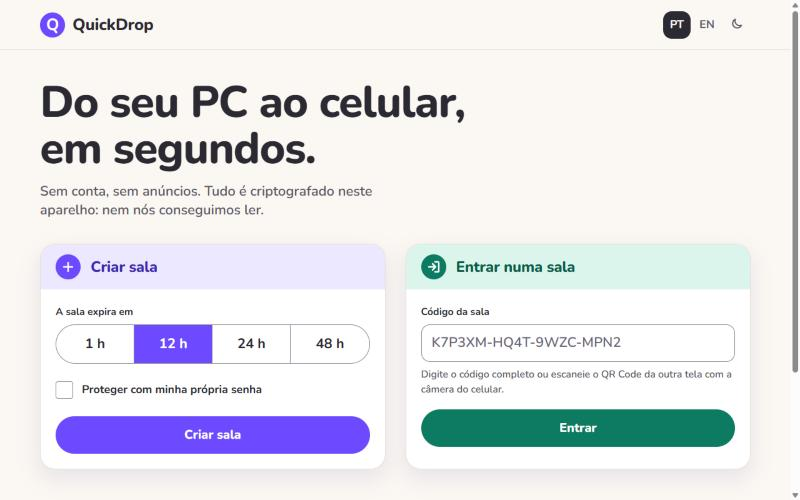
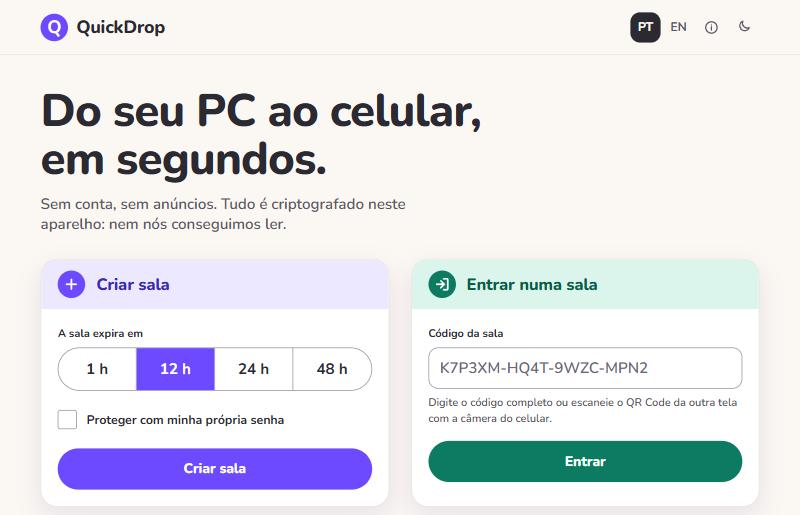
Sobre vira ícone no topo (junto de idioma e tema), sem rodapé; topo ajustado para celulares estreitos; teste de presença estável

diff --git a/frontend/static/css/style.css b/frontend/static/css/style.css
@@ -210,7 +210,8 @@ h1 {
   gap: 0.25rem;
 }
 
-.theme-toggle {
+/* Ícones do topo (sobre e tema): mesma forma de botão, 44px de alvo de toque. */
+.topbar__icon {
   display: grid;
   width: 44px;
   height: 44px;
@@ -219,15 +220,17 @@ h1 {
   border-radius: var(--radius-pill);
   background: none;
   color: var(--ink-soft);
+  text-decoration: none;
   cursor: pointer;
 }
 
-.theme-toggle:hover {
+.topbar__icon:hover,
+.topbar__icon[aria-current="page"] {
   background: var(--blue-tint);
   color: var(--on-blue-tint);
 }
 
-.theme-toggle svg {
+.topbar__icon svg {
   width: 1.375rem;
   height: 1.375rem;
   fill: none;
@@ -281,11 +284,6 @@ h1 {
 }
 
 /* ---------- páginas ---------- */
-
-.page-footer {
-  padding: 0 var(--gutter) 2rem;
-  font-size: 0.9rem;
-}
 
 .about-section {
   max-width: 40rem;
@@ -1051,7 +1049,7 @@ textarea:focus-visible {
   }
 
   .brand {
-    font-size: 1.5rem;
+    font-size: 1.375rem;
   }
 
   .page {
@@ -1113,5 +1111,31 @@ textarea:focus-visible {
 
   .route__train {
     display: none;
+  }
+}
+
+/* Celulares bem estreitos (360px e menos): marca e botões do topo menores para caberem lado a lado. */
+@media (max-width: 420px) {
+  .topbar {
+    flex-wrap: wrap;
+    gap: 0 0.5rem;
+  }
+
+  .brand {
+    gap: 0.5rem;
+    font-size: 1.2rem;
+  }
+
+  .brand .roundel {
+    width: 2.25rem;
+    height: 2.25rem;
+  }
+
+  .language button,
+  .topbar__icon {
+    width: 40px;
+    min-width: 40px;
+    height: 40px;
+    min-height: 40px;
   }
 }

diff --git a/frontend/templates/base.html b/frontend/templates/base.html
@@ -31,7 +31,10 @@
         <button type="button" data-language="pt" aria-pressed="true">PT</button>
         <button type="button" data-language="en" aria-pressed="false">EN</button>
       </div>
-      <button class="theme-toggle" type="button" aria-pressed="false" data-i18n-aria-label="theme.toggle" aria-label="Alternar entre tema claro e escuro">
+      <a class="topbar__icon" href="/sobre" data-i18n-aria-label="topbar.about" data-i18n-title="topbar.about" aria-label="Sobre" title="Sobre"{% if request.url.path == "/sobre" %} aria-current="page"{% endif %}>
+        {{ icon("info") }}
+      </a>
+      <button class="topbar__icon theme-toggle" type="button" aria-pressed="false" data-i18n-aria-label="theme.toggle" data-i18n-title="theme.toggle" aria-label="Alternar entre tema claro e escuro" title="Alternar entre tema claro e escuro">
         <span class="icon-moon">{{ icon("moon") }}</span>
         <span class="icon-sun">{{ icon("sun") }}</span>
       </button>
@@ -40,7 +43,6 @@
   <main class="page">
     {% block content %}{% endblock %}
   </main>
-  <footer class="page-footer"><a href="/sobre" data-i18n="footer.about">Sobre</a></footer>
   <script type="module" src="{{ url_for('static', path='js/theme-toggle.js') }}"></script>
   <script type="module" src="{{ url_for('static', path='js/pwa.js') }}"></script>
   {% block scripts %}{% endblock %}

diff --git a/frontend/static/js/messages.js b/frontend/static/js/messages.js
@@ -159,7 +159,7 @@ export const messages = {
     "about.abuse": "Como o conteúdo é ilegível para o servidor, a única providência possível é encerrar a sala. Para denunciar, envie o código da sala para",
     "about.abuseNoContact": "Para denunciar, envie o código da sala a quem hospeda este site.",
     "about.back": "Voltar ao início",
-    "footer.about": "Sobre",
+    "topbar.about": "Sobre",
     "error.serverFull": "O servidor está cheio agora. Tente de novo mais tarde.",
     "error.tooManyAttempts": "Muitas tentativas. Espere um minuto e tente de novo.",
     "error.fileGone": "Este arquivo não existe mais.",
@@ -327,7 +327,7 @@ export const messages = {
     "about.abuse": "Because the content is unreadable to the server, the only possible action is closing the room. To report one, send the room code to",
     "about.abuseNoContact": "To report a room, send its code to whoever hosts this site.",
     "about.back": "Back to start",
-    "footer.about": "About",
+    "topbar.about": "About",
     "error.serverFull": "The server is full right now. Please try again later.",
     "error.tooManyAttempts": "Too many attempts. Wait a minute and try again.",
     "error.fileGone": "This file no longer exists.",

diff --git a/frontend/static/js/i18n.js b/frontend/static/js/i18n.js
@@ -2,7 +2,7 @@
 //
 // No HTML, um elemento com data-i18n="chave" tem o texto trocado pela tradução.
 // Se o texto tiver valores, como "{textSize}", eles ficam em data-i18n-values (um JSON).
-// Também funcionam data-i18n-placeholder e data-i18n-aria-label.
+// Também funcionam data-i18n-placeholder, data-i18n-aria-label e data-i18n-title (a dica ao passar o mouse).
 
 import { messages } from "./messages.js";
 
@@ -49,6 +49,7 @@ export function applyTranslations(root = document) {
   }
   translateAttribute(root, "data-i18n-placeholder", "placeholder");
   translateAttribute(root, "data-i18n-aria-label", "aria-label");
+  translateAttribute(root, "data-i18n-title", "title");
 }
 
 function markActiveLanguageButton() {

diff --git a/frontend/templates/_icons.html b/frontend/templates/_icons.html
@@ -21,6 +21,8 @@
     <path d="M9 4c-2 0-2 1-2 3v2c0 1-1 2-2 3 1 1 2 2 2 3v2c0 2 0 3 2 3M15 4c2 0 2 1 2 3v2c0 1 1 2 2 3-1 1-2 2-2 3v2c0 2 0 3-2 3"/>
   {%- elif name == "keys" -%}
     <path d="M3 7h18v10H3zM7 11h.01M11 11h.01M15 11h.01M7 14h10"/>
+  {%- elif name == "info" -%}
+    <circle cx="12" cy="12" r="9"/><path d="M12 11v5M12 8h.01"/>
   {%- elif name == "sun" -%}
     <circle cx="12" cy="12" r="4"/><path d="M12 2v2M12 20v2M4.9 4.9l1.4 1.4M17.7 17.7l1.4 1.4M2 12h2M20 12h2M4.9 19.1l1.4-1.4M17.7 6.3l1.4-1.4"/>
   {%- elif name == "moon" -%}

diff --git a/backend/tests/test_theme.py b/backend/tests/test_theme.py
@@ -5,7 +5,7 @@ def test_every_page_has_the_theme_toggle_button(client):
     for path in ("/", "/sobre", "/r/ABCDEF"):
         page = client.get(path).text
 
-        assert 'class="theme-toggle"' in page
+        assert "topbar__icon theme-toggle" in page
         assert "js/theme-toggle.js" in page
 
 
@@ -18,3 +18,16 @@ def test_the_saved_theme_is_applied_before_the_stylesheet(client):
 def test_the_theme_scripts_are_served(client):
     for path in ("/static/js/theme-init.js", "/static/js/theme-toggle.js", "/static/js/theme.js"):
         assert client.get(path).status_code == 200
+
+
+def test_the_about_link_is_in_the_top_bar_and_not_in_a_footer(client):
+    for path in ("/", "/r/ABCDEF"):
+        page = client.get(path).text
+
+        assert page.index('href="/sobre"') < page.index("<main")
+        assert "<footer" not in page
+
+
+def test_the_about_page_marks_its_own_link_as_the_current_page(client):
+    assert 'title="Sobre" aria-current="page"' in client.get("/sobre").text
+    assert 'aria-current="page"' not in client.get("/").text

diff --git a/backend/tests/test_realtime.py b/backend/tests/test_realtime.py
@@ -110,7 +110,10 @@ def test_presence_follows_devices_joining_and_leaving(client):
         with client.websocket_connect(room_socket_url(room["code"])) as second:
             assert read_presence(first) == 2
             assert read_presence(second) == 2
-        assert read_presence(first) == 1
+        # Ao sair, o servidor tira a conexão da sala. O aviso "um aparelho a menos" é testado direto no
+        # gerenciador (acima): o cliente de teste cancela a tarefa do servidor ao fechar, e o aviso às vezes
+        # nem chega a ser enviado, o que travava a leitura aqui.
+        assert client.app.state.connections.count(room["code"]) == 1
 
 
 def test_ping_gets_a_pong(client):

diff --git a/docs/PLANEJAMENTO.md b/docs/PLANEJAMENTO.md
@@ -593,7 +593,9 @@ O autor não gostou do visual "Linhas de Metrô"; a skill `ui-ux-pro-max` foi in
 - [x] **Botão de tema** no topo (lua/sol), discreto: o tema segue o aparelho até a pessoa escolher; a escolha é lembrada (`localStorage`) e aplicada por um script minúsculo no `<head>` antes da primeira pintura, para a página não piscar. Rótulo acessível em português e inglês e `aria-pressed`
 - [x] `DESIGN.md` reescrito para o sistema novo
 - [x] Correção de um teste de presença que travava de vez em quando (usava dois clientes de teste, cada um com seu laço de eventos): agora usa duas conexões do mesmo cliente
-- [x] 198 testes no backend e 74 no frontend; conferido no navegador em desktop, celular e tema escuro (alternar, lembrar a escolha, escolha "claro" valendo com o aparelho em modo escuro)
+- [x] O link "Sobre" saiu do rodapé (um link solto, destoante) e virou um **ícone ⓘ no topo**, junto do idioma e do tema, com rótulo e dica nos dois idiomas; o rodapé foi removido. Marca e botões ajustados para caber lado a lado em 360px de largura
+- [x] Segundo teste de presença que travava de vez em quando corrigido de verdade: o cliente de teste cancela a tarefa do servidor ao fechar e o aviso "um aparelho a menos" às vezes nem era enviado; o teste agora confere a contagem de aparelhos (o aviso é testado direto no gerenciador de conexões). 0 travamentos em 40 rodadas e 4 suítes completas seguidas
+- [x] 200 testes no backend e 74 no frontend; conferido no navegador em desktop, celular e tema escuro (alternar, lembrar a escolha, escolha "claro" valendo com o aparelho em modo escuro)
 
 ### Fase 8: Internet (no ar em https://quickdrop-syoti.mexicocentral.cloudapp.azure.com; celular na 4G funcionou)
 Hospedagem **grátis**, explicada na seção 14.1. Resumo: **Oracle Cloud Always Free** (uma VM Ubuntu de verdade, ligada 24 h) com **Docker + Caddy** e um endereço grátis do **DuckDNS**.

diff --git a/docs/REQUISITOS.md b/docs/REQUISITOS.md
@@ -149,7 +149,7 @@ Os valores de limites (tamanhos, tempos, quantidades) são **configuráveis** no
 | RF-061 | **Tema claro e escuro**: segue o sistema do aparelho e há um **botão discreto no topo** para trocar; a escolha é lembrada neste navegador. | I | ✅ |
 | RF-062 | Layout **pensado primeiro para celular** e que se adapta ao computador. | E | ✅ |
 | RF-063 | **App instalável (PWA)**: manifesto, ícones, cor da barra e página "sem conexão" quando o servidor não responde. O app **não guarda** salas nem arquivos em cache. | D | ✅ |
-| RF-064 | Página **Sobre** com o que o servidor guarda, por quanto tempo e como denunciar abuso (contato configurável). | I | ✅ |
+| RF-064 | Página **Sobre** com o que o servidor guarda, por quanto tempo e como denunciar abuso (contato configurável), acessível por um **ícone ⓘ no topo** de todas as páginas, junto do idioma e do tema. | I | ✅ |
 | RF-065 | Diagrama visual do caminho da transferência (origem, sala e destino) nas telas inicial e da sala. | D | ✅ |
 
 ### 4.6 Operação e administração
@@ -232,7 +232,7 @@ Os valores de limites (tamanhos, tempos, quantidades) são **configuráveis** no
 |---|---|---|---|
 | RNF-060 | **Código limpo** conforme `CLAUDE.md` (nomes claros, funções pequenas, comentários que explicam o porquê, tipos). | E | ✅ |
 | RNF-061 | Backend e frontend em **pastas separadas**; a criptografia concentrada em **um só arquivo** do frontend. | E | ✅ |
-| RNF-062 | **Testes automatizados**: 198 no backend e 74 no frontend, com formatação e análise estática (`ruff`). | E | ✅ |
+| RNF-062 | **Testes automatizados**: 200 no backend e 74 no frontend, com formatação e análise estática (`ruff`). | E | ✅ |
 | RNF-063 | Documentação do projeto atualizada (`PLANEJAMENTO.md`, `COMO-RODAR.md`, `DEPLOY.md`, `DESIGN.md`, este documento e o de Visão). | I | ✅ |
 
 ### 5.7 Portabilidade, custo e operação

diff --git a/DESIGN.md b/DESIGN.md
@@ -202,7 +202,7 @@ Cartões de 24px (`rounded.card`), campos, caixa de código e QR de 14px (`round
 - Âmbar, pílula, 800, números tabulares. Usada só para o tempo restante (e a variante grande na sala). Some quando vazia.
 
 ### Navigation
-- Barra do topo: círculo violeta com glifo e marca em 800 à esquerda; seletor PT / EN à direita, botões de 44px, o ativo (`aria-pressed`) preenchido de tinta.
+- Barra do topo: círculo violeta com glifo e marca em 800 à esquerda; à direita, o seletor PT / EN, o ícone ⓘ (Sobre) e o botão de tema (lua ou sol), todos com alvo de 44px (40px em telas de 420px ou menos). O idioma ativo (`aria-pressed`) fica preenchido de tinta; o ⓘ ganha o tom pastel quando é a página atual (`aria-current`). Os dois ícones têm rótulo acessível e dica ao passar o mouse (`title`) nos dois idiomas. Em telas muito estreitas (menos de ~340px) os botões descem para uma segunda linha em vez de apertar a marca. Não há rodapé.
 
 ### Arquivos, texto e clips
 - **Área de soltar:** borda tracejada de 1.5px (fica violeta ao arrastar um arquivo por cima) e botão violeta de largura limitada. A fila de envio mostra nome, tamanho e uma barra preenchida de âmbar (o que está em trânsito).

diff --git a/docs/VISAO.md b/docs/VISAO.md
@@ -509,7 +509,7 @@ Os requisitos detalhados e os critérios de aceitação estão no [Documento de 
 | **Usabilidade** | Transferência concluída sem aprender nada, em poucos passos |
 | **Acessibilidade** | WCAG 2.1 AA (alvo; sem auditoria formal) |
 | **Disponibilidade** | Reinício automático; alerta se o site cair |
-| **Manutenibilidade** | Código limpo, 198 testes no backend e 74 no frontend, documentação atualizada |
+| **Manutenibilidade** | Código limpo, 200 testes no backend e 74 no frontend, documentação atualizada |
 | **Portabilidade** | Docker: o mesmo pacote roda em qualquer servidor |
 
 ---

diff --git a/README.md b/README.md
@@ -240,7 +240,7 @@ As regras de código do projeto estão em [CLAUDE.md](CLAUDE.md): código simple
 
 ```powershell
 cd backend
-pytest                    # 198 testes do servidor
+pytest                    # 200 testes do servidor
 ruff check . ; ruff format --check .
 
 cd ..\frontend
